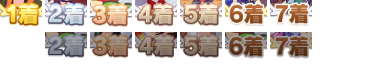
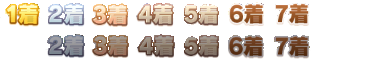
画像認識の調整

diff --git a/src/Test.vue b/src/Test.vue
@@ -1,0 +1,121 @@
+<template>
+  <div>
+    <h1>Test page</h1>
+    <OpenCV ref="opencv"
+       :allow="require('./assets/template/allow.png')"
+       :ranking="require('./assets/template/ranking.png')"
+       :field="require('./assets/template/field.png')"
+       :length="require('./assets/template/length.png')"
+       :rotate="require('./assets/template/rotate.png')"
+       :callback="onImageDone" />
+    <table>
+      <tbody>
+        <tr v-for="(r, i) in opencv_result_view" :key="i">
+          <td>{{ `sample${i + 1} `}}</td>
+          <td>{{ r.success }}</td>
+          <td>{{ r.opencv }}</td>
+          <td>{{ r.template }}</td>
+        </tr>
+      </tbody>
+    </table>
+  </div>
+</template>
+
+<script>
+import OpenCV from './components/OpenCV.vue';
+export default {
+  name: "Test",
+  components: {
+    OpenCV,
+  },
+  data: function () {
+    return {
+      opencv_file_index: 0,
+      opencv_processing: false,
+      opencv_files: Array(8).fill(0).map((_, i) => require(`./assets/template/sample${i + 1}.png`)),
+      opencv_results: [{
+        sprinter: { field: 'turf', length: 1200, clockwise: true,  ranking: [1,5,7] },
+        mile: {     field: 'turf', length: 1600, clockwise: false, ranking: [5,1,6] },
+        middle: {   field: 'turf', length: 2000, clockwise: true,  ranking: [2,5,4] },
+        stayer: {   field: 'turf', length: 2500, clockwise: true,  ranking: [4,1,6] },
+        dirt: {     field: 'dirt', length: 1700, clockwise: true,  ranking: [3,6,4] },
+      }, {
+        sprinter: { field: 'turf', length: 1000, clockwise: null,  ranking: [4,6,2] },
+        mile: {     field: 'turf', length: 1800, clockwise: true,  ranking: [1,2,3] },
+        middle: {   field: 'turf', length: 2200, clockwise: false, ranking: [1,2,4] },
+        stayer: {   field: 'turf', length: 2600, clockwise: true,  ranking: [2,4,5] },
+        dirt: {     field: 'dirt', length: 1700, clockwise: true,  ranking: [3,2,4] },
+      }, {
+        sprinter: { field: 'turf', length: 1000, clockwise: null,  ranking: [1,5,4] },
+        mile: {     field: 'turf', length: 1500, clockwise: true,  ranking: [3,5,4] },
+        middle: {   field: 'turf', length: 2000, clockwise: true,  ranking: [6,2,3] },
+        stayer: {   field: 'turf', length: 3600, clockwise: true,  ranking: [4,2,1] },
+        dirt: {     field: 'dirt', length: 1700, clockwise: true,  ranking: [2,3,5] },
+      }, {
+        // 4
+        sprinter: { field: 'turf', length: 1200, clockwise: false, ranking: [2,4,6] },
+        mile: {     field: 'turf', length: 1800, clockwise: false, ranking: [2,6,4] },
+        middle: {   field: 'turf', length: 2200, clockwise: true,  ranking: [3,2,7] },
+        stayer: {   field: 'turf', length: 3400, clockwise: false, ranking: [2,3,4] },
+        dirt: {     field: 'dirt', length: 1800, clockwise: true,  ranking: [1,3,5] },
+      }, {
+        sprinter: { field: 'turf', length: 1200, clockwise: false, ranking: [3,5,2] },
+        mile: {     field: 'turf', length: 1800, clockwise: true,  ranking: [4,3,2] },
+        middle: {   field: 'turf', length: 2400, clockwise: true,  ranking: [1,2,3] },
+        stayer: {   field: 'turf', length: 2600, clockwise: true,  ranking: [1,3,2] },
+        dirt: {     field: 'dirt', length: 1800, clockwise: true,  ranking: [1,5,2] },
+      }, {
+        sprinter: { field: 'turf', length: 1200, clockwise: true,  ranking: [1,5,6] },
+        mile: {     field: 'turf', length: 1600, clockwise: true,  ranking: [5,3,1] },
+        middle: {   field: 'turf', length: 2000, clockwise: true,  ranking: [6,4,5] },
+        stayer: {   field: 'turf', length: 2600, clockwise: true,  ranking: [1,6,4] },
+        dirt: {     field: 'dirt', length: 1800, clockwise: true,  ranking: [3,1,6] },
+      }, {
+        // 7
+        sprinter: { field: 'turf', length: 1200, clockwise: true,  ranking: [3,5,1] },
+        mile: {     field: 'turf', length: 1800, clockwise: true,  ranking: [1,3,2] },
+        middle: {   field: 'turf', length: 2200, clockwise: true,  ranking: [5,2,6] },
+        stayer: {   field: 'turf', length: 2500, clockwise: true,  ranking: [1,2,5] },
+        dirt: {     field: 'dirt', length: 1700, clockwise: true,  ranking: [2,1,4] },
+      }, {
+        sprinter: { field: 'turf', length: 1400, clockwise: true,  ranking: [2,5,1] },
+        mile: {     field: 'turf', length: 1800, clockwise: true,  ranking: [1,3,7] },
+        middle: {   field: 'turf', length: 2000, clockwise: false, ranking: [5,4,2] },
+        stayer: {   field: 'turf', length: 2500, clockwise: false, ranking: [2,6,4] },
+        dirt: {     field: 'dirt', length: 1700, clockwise: true,  ranking: [1,4,5] },
+      }],
+      opencv_result_view: [],
+    };
+  },
+  computed: {
+  },
+  methods: {
+    onImageDone(result) {     
+      const r = {};
+      r.opencv = result;
+      r.template = this.opencv_results[this.opencv_file_index-1];
+      r.success = JSON.stringify(r.opencv) == JSON.stringify(r.template);
+      this.opencv_result_view.push(r);
+      
+      this.opencv_processing = false;
+    }
+  },
+  mounted() {
+    const timer = setInterval(() => {
+      if (!this.opencv_processing) {
+        this.$refs.opencv.run(this.opencv_files[this.opencv_file_index++]);
+        if (this.opencv_file_index > this.opencv_files.length) {
+          clearInterval(timer);
+          this.$refs.opencv.run(this.opencv_files[6]);
+        }
+      }
+    }, 500);
+
+  },
+  destroyed() {
+  },
+};
+</script>
+
+<style>
+</style>

diff --git a/src/App.vue b/src/App.vue
@@ -60,7 +60,6 @@ export default {
   },
   data: function () {
     return {
-      debug: false,
       version: [1,0,2],
       view: "top",
       scrollParam: {},
@@ -87,7 +86,6 @@ export default {
   },
   methods: {
     load: function (event) {
-      console.log(event);
       this.save(this.auto_save);
 
       const file = event.target.files[0];
@@ -111,7 +109,7 @@ export default {
         const blob = new Blob([JSON.stringify(this.data, null, 2)], {type: 'application/json'});
         const a = document.createElement('a');
         a.setAttribute('href', URL.createObjectURL(blob));
-        a.setAttribute('download', `uma_team_${new Date().toISOString().substr(0, 10)}_${new Date().getTime()}.json`);
+        a.setAttribute('download', `${this.debug ? 'debug_' : ''}uma_team_${new Date().toISOString().substr(0, 10)}_${new Date().getTime()}.json`);
         a.click();
       }
     },
@@ -205,10 +203,9 @@ export default {
 
       return Object.fromEntries(result);
     },
+    debug: () => window.location.hostname.startsWith('localhost'),
   },
   mounted: function () {
-    this.debug = window.location.hostname.startsWith('localhost');
-
     try {
       const loadData = JSON.parse(localStorage.getItem('data'));
       if (loadData.players instanceof Array && loadData.teams instanceof Array) {

diff --git a/src/components/OpenCV.vue b/src/components/OpenCV.vue
@@ -32,8 +32,6 @@ export default {
       this.$refs.source.setAttribute('src', file);
     },
     process: function () {
-      console.log('start');
-
       const cv = window.cv;
       if (!window.cv) {
         console.log('OpenCVが有効じゃありません');
@@ -145,10 +143,12 @@ export default {
         cv.rectangle(scaled, rect_lt, rect_rb, blue, 2, cv.LINE_8, 0);
 
         return Array(3).fill(null).map((_, i) => {
-          const rect = { x: x + 165 + i * 74, y: y + 115, w: 36, h: 24 };
+          const rect = { x: x + 165 + i * 74, y: y + 117, w: 36, h: 20 };
           const rank_match = match(scaled, rect, template.ranking, green);
 
-          return rank_match.value > 3000000 ? {
+          console.log(`${rank_match.value}: ${!(Math.floor(rank_match.y / 32))}, ${Math.floor(rank_match.x / 45) + 1}`);
+
+          return rank_match.value > 1600000 ? {
             rank: Math.floor(rank_match.x / 45) + 1,
             won: !(Math.floor(rank_match.y / 32))
           } : {
@@ -226,6 +226,4 @@ export default {
 </script>
 
 <style>
-.opencv {
-}
 </style>

diff --git a/vue.config.js b/vue.config.js
@@ -1,5 +1,4 @@
 const path = require('path');
-const fs = require('fs');
 
 module.exports = {
 	outputDir: path.resolve(__dirname, 'docs'),
@@ -7,7 +6,12 @@ module.exports = {
 		index: {
 			entry: 'src/main.js',
 			title: 'ウマ娘 チームレースの記録',
-		}
+		},
+		test: {
+			entry: 'src/test.js',
+			title: 'テストページ',
+			filename: 'test',
+		},
 	},
 	publicPath: "./",
 };

diff --git a/src/test.js b/src/test.js
@@ -1,0 +1,13 @@
+import Vue from 'vue'
+import App from './Test.vue'
+
+Vue.config.productionTip = false;
+
+import History from './plugins/History.js';
+const historyOption = { query: [] };
+Vue.use(History, historyOption);
+Vue.prototype.$queryCallback = historyOption.query;
+
+new Vue({
+	render: h => h(App),
+}).$mount('#app')
